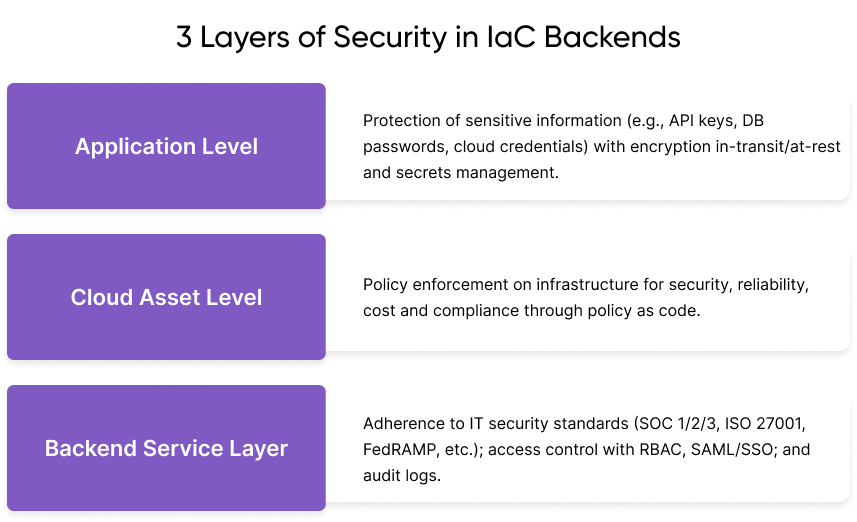
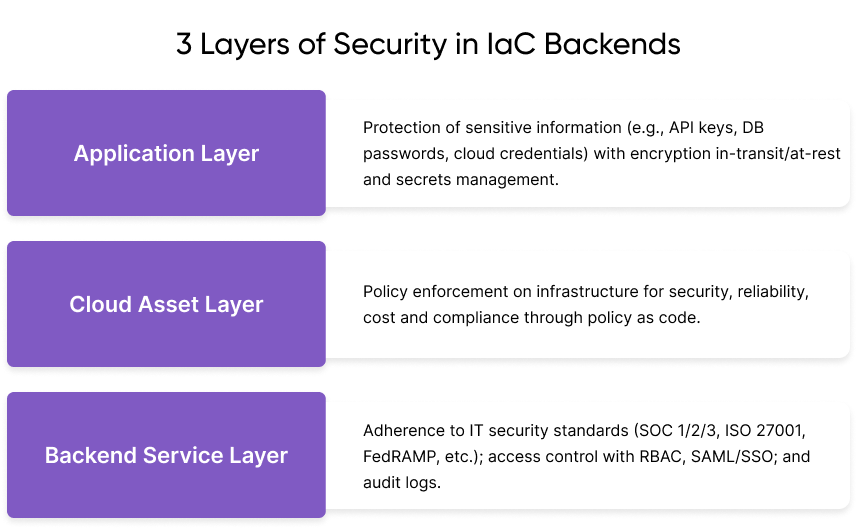
Fix some typos

diff --git a/content/blog/hidden-costs-of-infrastructure-management/index.md b/content/blog/hidden-costs-of-infrastructure-management/index.md
@@ -1,7 +1,7 @@
 ---
 title: "The Hidden Costs of Infrastructure as Code"
 date: 2024-12-10T09:00:00-08:00
-meta_desc: "IaC backends have hidden costs. Learn how Pulumi Cloud reduces operational burden, minimizes risk of outages, and make scaling easier."
+meta_desc: "IaC backends have hidden costs. Learn how Pulumi Cloud reduces operational burden, minimizes risk of outages, and makes scaling easier."
 meta_image: meta.png
 authors:
     - aaron-kao
@@ -65,9 +65,9 @@ Pulumi, as an Amazon Web Services Advanced Partner, undergoes a thorough review 
 Access control at the backend service layer is crucial for enforcing least privilege access. Pulumi Cloud integrates seamlessly with various identity providers like Azure ActiveDirectory, Okta, G Suite, or any SAML/SSO provider, offering deep support for role-based access control (RBAC) and SCIM for automatic synchronization and revocation of access based on identity provider groups. This fine-grained control over state access is a significant advantage over DIY backends, where all access control mechanisms would need to be built from scratch.
 Audit logs play a vital role in tracking user activity within an organization, recording what actions were taken, when, and by whom. Pulumi's audit logs are immutable, capturing the UNIX timestamp of events, the user who invoked the action, the event itself, and the source IP of the call. This level of auditing ensures that the activities of organization members are attributable, enhancing security and compliance.
 
-At the cloud asset level, you and your team need to prevent infrastructure deployments that violate policies related to security, reliability, cost, or compliance. Pulumi Cloud, through [Pulumi CrossGuard](/crossguard/), provides out-of-the-box support for common security and compliance policies, ensuring PCIDSS, ISO27001, SOC2, and CIS compliance for cloud applications and infrastructure. Such organization-wide enforcement and specific policy support are not readily available with DIY backends.
+At the cloud asset layer, you and your team need to prevent infrastructure deployments that violate policies related to security, reliability, cost, or compliance. Pulumi Cloud, through [Pulumi CrossGuard](/crossguard/), provides out-of-the-box support for common security and compliance policies, ensuring PCIDSS, ISO27001, SOC2, and CIS compliance for cloud applications and infrastructure. Such organization-wide enforcement and specific policy support are not readily available with DIY backends.
 
-At the application level, securing sensitive information like database passwords, cloud credentials, and API keys is paramount. Secrets can inadvertently end up in insecurely stored state files, leading to potential breaches, as highlighted by a [Sysdig article](*https://sysdig.com/blog/cloud-breach-terraform-data-theft/) where an attacker exploited a manually managed state file to gain control over an entire AWS account. Pulumi Cloud, however, encrypts all data in transit and at rest, utilizing hardware security module (HSM) based encryption. It also avoids capturing cloud credentials, instead relying on client-side authentication, as detailed in the [Pulumi Cloud Security Whitepaper](/security/pulumi-cloud-security-whitepaper.pdf).
+At the application layer, securing sensitive information like database passwords, cloud credentials, and API keys is paramount. Secrets can inadvertently end up in insecurely stored state files, leading to potential breaches, as highlighted by a [Sysdig article](*https://sysdig.com/blog/cloud-breach-terraform-data-theft/) where an attacker exploited a manually managed state file to gain control over an entire AWS account. Pulumi Cloud, however, encrypts all data in transit and at rest, utilizing hardware security module (HSM) based encryption. It also avoids capturing cloud credentials, instead relying on client-side authentication, as detailed in the [Pulumi Cloud Security Whitepaper](/security/pulumi-cloud-security-whitepaper.pdf).
 
 Pulumi Cloud further enhances security with [Pulumi ESC](/product/secrets-management/), a centralized secrets management and orchestration service. This service allows for pulling and syncing secrets from various stores like HashiCorp Vault, AWS Secrets Manager, Azure Key Vault, GCP Secret Manager, and 1Password, making it easy to adopt dynamic, short-lived secrets on demand. Pulumi ESC leverages the same identity, RBAC, Teams, SAML/SCIM, OIDC, and scoped access tokens used for Pulumi IaC, ensuring that secrets management complies with enterprise security policies. Every access or change to secrets or configuration values is logged for auditing, providing a secure and auditable environment for you and your team to access secrets via CLI, API, Kubernetes operator, the Pulumi Cloud UI, and in-code with TypeScript/JavaScript, Python, and Go SDKs. With a DIY backend, you have to manage integration and access controls with individual secrets stores, with potential secrets sprawl and operational overhead.
 
@@ -129,6 +129,6 @@ This program will help strengthen executive buy-in for your infrastructure initi
 
 If this sounds valuable, let’s discuss tailoring the agenda to fit your organization’s priorities.
 
-[Register now](https://info.pulumi.com/pulumi-platform-engineering-immersion-days) or contact your Pulumi sales team.
+[Register now](https://info.pulumi.com/pulumi-platform-engineering-immersion-days) or [contact your Pulumi sales team](/contact).
 
 _Meta image credit: [ESO/L. Calçada](https://www.eso.org/public/images/eso0942a/)_
